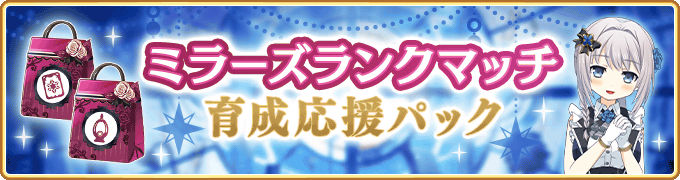
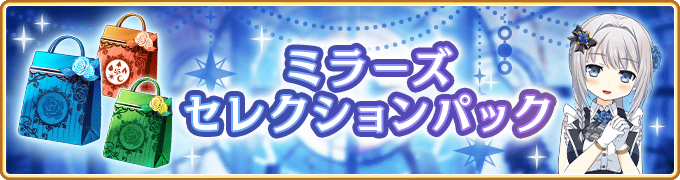
Mirrors and Mitsuru Inami update

diff --git a/js/data.js b/js/data.js
@@ -71,61 +71,63 @@ var timerData = [
         "timers": [
 			{
 				name: "Preliminaries - Day 1",
-				start: "Mar 20 2023, 17:00",
-				end: "Mar 21 2023, 15:59"
+				start: "sep 11 2023, 17:00",
+				end: "sep 12 2023, 15:59"
 			},
 			{
 				name: "Preliminaries - Day 2",
-				start: "Mar 21 2023, 16:00",
-				end: "Mar 22 2023, 15:59"
+				start: "sep 12 2023, 16:00",
+				end: "sep 13 2023, 15:59"
 			},
 			{
 				name: "Preliminaries - Day 3",
-				start: "Mar 22 2023, 16:00",
-				end: "Mar 23 2023, 15:59"
+				start: "sep 13 2023, 16:00",
+				end: "sep 14 2023, 15:59"
 			},
 			{
 				name: "Preliminaries - Day 4",
-				start: "Mar 23 2023, 16:00",
-				end: "Mar 24 2023, 15:59"
+				start: "sep 14 2023, 16:00",
+				end: "sep 15 2023, 15:59"
 			},
 			{
 				name: "Preliminaries - Day 5",
-				start: "Mar 24 2023, 16:00",
-				end: "Mar 25 2023, 15:59"
+				start: "sep 15 2023, 16:00",
+				end: "sep 16 2023, 15:59"
 			},
 			{
 				name: "Finals",
-				start: "Mar 25 2023, 17:00",
-				end: "Mar 26 2023, 20:59"
+				start: "sep 16 2023, 17:00",
+				end: "sep 17 2023, 20:59"
 			},
             {
                 "name": "Main Event",
-                "start": "Mar 26 2023, 17:00",
-                "end": "Mar 27 2023, 20:59",
+                "start": "sep 11 2023, 17:00",
+                "end": "Sep 17 2023, 20:59",
                 "extraPriority": 1,
 				"type": "normal",
 				markers:
-				[{time: "Nov 12 2022, 17:00", title: "Finals", type: "battle"}]
+				[{time: "sep 17 2023, 17:00", title: "Finals", type: "battle"}]
 			}
 			]
     },
 	{
         "type": "Event",
         "title": [
-            "【New Event Type】Puella Historia ・ Pillar of Tomorrow",
-			"『ピュエラ・ヒストリア Pillar of Tomorrow』"
+            "【Event】Mitsuru Inami Wants to Be 'Normal'",
+			"『「普通」でありたい伊並満』"
         ],
         "image": [
-            "imgs/events/pot00.png"
+            "imgs/events/event05.png"
         ],
         "column": 0,
         "priority": 2,
         "timers": [
 			{
-				name: "Tentative Schedule",
-				start: "aug 17 2023, 16:00",
-				end: "aug 22 2023, 14:59",
+				name: "",
+				start: "sep 11 2023, 17:00",
+				end: "sep 22 2023, 14:59",
+				markers:
+				[{title: "Story Quests 11～20 & 100 Evils Special Challenge Quests Ⅰ～Ⅲ", time: "sep 15 2023, 16:00", type: "battle"}]
 			}
         ]
     },
@@ -471,14 +473,14 @@ var timerData = [
 		priority: 5,
 		timers: [
 		{
-			name: "Kagome's 100 Monsters - Ancient Wish",
-			start: "aug 4 2023, 16:00",
-			end: "aug 24 2023, 14:59"
+			name: "Mitsuru Inami Wants to Be 'Normal' - Shopping Receipt",
+			start: "sep 11 2023, 17:00",
+			end: "sep 29 2023, 14:59"
 		},
 		{
-			name: "Paradise Shift - Welcoming Feeling",
-			start: "aug 22 2023, 16:00",
-			end: "sep 11 2023, 14:59"
+			name: "SP Shop Special Memoria Released - Mami Tomoe's Everyday Life",
+			start: "sep 11 2023, 17:00",
+			end: "sep 21 2023, 14:59",
 		},
 		{
 			name: "6th Anniversary Home Screen Outfit Exchange Ticket",
@@ -530,34 +532,28 @@ var timerData = [
 				end: "sept 11 2023, 14:59"
 			},
 			{
-				name: "Choose your 4★ Magical Girl - Green",
-				start: "aug 22 2023, 16:00",
-				end: "sept 11 2023, 14:59"
+				name: "Mitsuru Inami - Red",
+				start: "sep 11 2023, 17:00",
+				end: "sep 29 2023, 14:59"
 			},
 		]
 	},
 {
 		type: "Other",
 		title: [
-		"【Limited】6th anniversary DX lucky bag",
-		"『6周年DX福袋』"
+		"Ranking Mirrors Related Packs",
+		"『ミラーズランキング開催記念予告』"
 		],
 		image: [
-            "imgs/anni/shops00.png",
-			"imgs/anni/shops01.png"
+            "imgs/shops/mirrors-pack00.png",
         ],
 		column: 2,
 		priority: 10,
 		timers: [
 		{
 			name: "Sales period",
-			start: "aug 22 2023, 16:00",
-			end: "sep 4 2023, 14:59",
-		},
-		{
-			name: "DX Ticket Limited and Unlimited Gachas",
-			start: "aug 22 2023, 16:00",
-			end: "sep 11 2023, 14:59",
+			start: "sep 11 2023, 17:00",
+			end: "sep 18 2023, 14:59",
 		}
 		]
 	},
@@ -574,11 +570,6 @@ var timerData = [
 		priority: 2,
 		timers: [
 		{
-			name: "Kagome Satori Hyakki Yako ver. Selection Ticket - Green",
-			start: "aug 4 2023, 16:00",
-			end: "aug 24 2023, 14:59"
-		},
-		{
 			name: "Historia Magical Girls - Blue",
 			start: "aug 17 2023, 16:00",
 			end: "sept 11 2023, 14:59"
@@ -587,6 +578,11 @@ var timerData = [
 			name: "Devil Homura - Purple",
 			start: "aug 22 2023, 16:00",
 			end: "sept 18 2023, 14:59"
+		},
+		{
+			name: "Mitsuru Inami - Red",
+			start: "sep 11 2023, 17:00",
+			end: "sep 29 2023, 14:59"
 		},
 		]
 	},
@@ -613,21 +609,21 @@ var timerData = [
 	{
         "type": "Gacha",
         "title": [
-			"【New Limited Gacha】Nanami Yachiyo Historia ver. Pickup and Step-up Gacha",
-            "【有償限定 ステップアップ & ピックアップ ガチャ 期間限定 七海やちよ ヒストリアver. 】"
+			"【New Gacha】Mitsuru Inami Pickup Gacha Pickup and Step-up Gacha",
+            "【有償限定 ステップアップ & ピックアップガチャ 伊並満編】"
         ],
         "image": [
-            "imgs/gatcha/yachan00.png",
-			"imgs/gatcha/yachan01.png"
+            "imgs/gatcha/gacha07.png",
+			"imgs/gatcha/gacha0701.png"
         ],
         "column": 1,
         "priority": 1,
         "timers": [
             {
                 name: "Pick Up & Paid Step Up",
-                start: "Aug 17 2023, 16:00",
-				end: "sep 4 2023, 14:59",
-                extraPriority: 100
+                start: "Sep 11 2023, 16:00",
+				end: "Sep 29 2023, 14:59",
+                extraPriority: 1000
             }
         ]
     },
